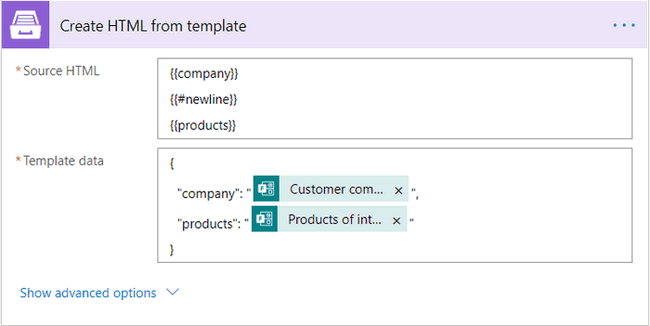
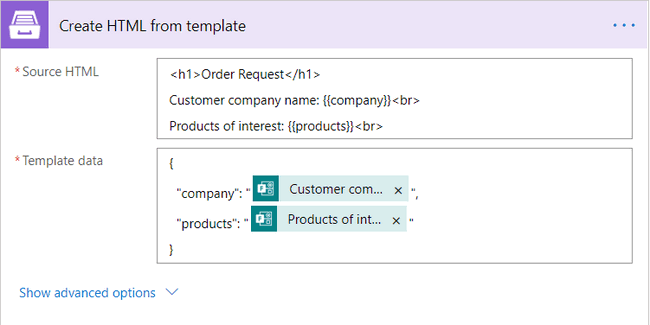
How-tos corrections

diff --git a/source/flow/how-tos/documents/create-custom-pdf-invoice-from-d365.rst b/source/flow/how-tos/documents/create-custom-pdf-invoice-from-d365.rst
@@ -11,6 +11,9 @@ Sometimes Dynamics 365 functionality for creating invoices is not enough if you 
 
 In this example, we will use the `Plumsail Documents <https://plumsail.com/documents/>`_ connector for Power Automate to create customized documents populated with Dynamics 365 CRM data. 
 
+.. image:: ../../../_static/img/flow/how-tos/launch-dynamics-flow.png
+    :alt: Start document generation process action
+
 Our Flow to do the job is simple:
 
 .. image:: ../../../_static/img/flow/how-tos/create-invoice-from-d365-flow.png
@@ -38,7 +41,8 @@ Click on the *Add Process* button.
     :alt: add process button
 
 Give a name to the process and upload the invoice template you'd like to use. 
-In this example, it is an ordinary service invoice template. To test the scenario, feel free to `download it <../../../_static/files/flow/how-tos/invoice-template-d365.docx>`_.
+
+Feel free to `download an ordinary service invoice template <../../../_static/files/flow/how-tos/invoice-template-d365.docx>`_ used in this example.
 
 .. image:: ../../../_static/img/flow/how-tos/create-dynamics-process.png
     :alt: Name process and upload template
@@ -104,7 +108,9 @@ When everything is done here, click on Save & Next to set up deliveries.
 Delivery
 --------
 
-It's possible to add as many deliveries as you need. We'll add an email delivery for demonstrating purpose. It will deliver the invoice completed with Dynamics 365 data to the customer.
+It's possible to add as many deliveries as you need. For instance, you could save the resulting invoice to your SharePoint library or OneDrive folder, then send as an e-mail attachment to the customer. Check out the `full list of available deliveries <../../../user-guide/processes/create-delivery.html#list-of-available-deliveries>`_.
+
+We'll add an email delivery for demonstrating purpose. It will deliver the invoice completed with Dynamics 365 data to the customer.
 
 We put token :code:`{{email}}` as a recipient's email address. So, it will adjust dynamically every time according to the specified data. We'll pull it from Dynamics 365 CRM. 
 
@@ -151,8 +157,6 @@ You can type any name for the connection. For example, *Plumsail Documents*.
 
 Then `create an API key in your Plumsail Account page <https://account.plumsail.com/documents/api-keys>`_, copy and paste it to *Access Key* field.
 
-
-
 The *Start Document generation process* has two parameters:
 
 - Process name - just select from the dropdown.
@@ -172,6 +176,15 @@ Once the Flow ran successfully, the customer receives a personalized email with 
 
 .. image:: ../../../_static/img/flow/how-tos/ready-dynamics-invoice.png
     :alt: invoice created from dynamics 365 CRM
+
+Use ready invoices in Flow
+~~~~~~~~~~~~~~~~~~~~~~~~~~
+
+It's possible to continue working with the generated invoices from Dynamics 365 further in Flow. For example, you can send them for approval. Just add the result file returned by *Start document generation process* action as an attachment:
+
+.. image:: ../../../_static/img/flow/how-tos/create-approval-d365.png
+    :alt: Send Dynamics 365 invoice for approval
+
 
 Conclusion
 ~~~~~~~~~~

diff --git a/source/flow/how-tos/documents/convert-microsoft-forms-with-attachments-to-pdf.rst b/source/flow/how-tos/documents/convert-microsoft-forms-with-attachments-to-pdf.rst
@@ -73,13 +73,13 @@ We'll use actions both from the `Plumsail Documents connector <https://emea.flow
 
 The first is **Create HTML from template**. In our case, it's simple.
 
-In Source HTML, we just added text HTML template for our two fields - Customer company name and Products of interest, separated by a new line:
+In Source HTML, we just added text HTML template for our order request - Customer company name and Products of interest. You may see :code:`{{curly}}` braces - they represent tokens that will be replaced by the response data:
 
 .. code:: text
 
-    {{company}}
-    {{#newline}}
-    {{products}}
+    <h1>Order Request</h1>
+    Customer company name: {{company}}<br>
+    Products of interest: {{products}}<br>
 
 .. note:: Please, get acquainted with `how Plumsail Documents HTML templates work <../../../document-generation/html/index.html>`_ to compose your customized templates.
 
@@ -173,6 +173,8 @@ You should receive the schema like this one:
         }
     }
 
+.. image:: ../../../_static/img/flow/how-tos/parse-json-ms-forms.png
+    :alt: Parse JSON step
 
 Get file content
 ----------------

diff --git a/source/flow/how-tos/documents/create-d365-leads-from-pdf-form.rst b/source/flow/how-tos/documents/create-d365-leads-from-pdf-form.rst
@@ -9,8 +9,10 @@ Extract data from fillable PDF forms and automatically create new leads in Micro
 
 In this article, we’ll look into how to collect data from filled PDF forms and create Microsoft Dynamics 365 leads automatically using Power Automate or Azure Logic Apps. We will use `Get Form from PDF <../../actions/document-processing.html#get-form-from-pdf>`_ action from the `Plumsail Documents <https://plumsail.com/documents/>`_ connector.
 
-Let us say you have a PDF form to gather contact and other information from new customers. 
-You need to bring this data to your Dynamics 365 CRM and create new leads for each completed form.
+Let us say there is a PDF form to collect contact information from your new customers. 
+It's sent by email. Once you receive it, you need to bring that data to your Dynamics 365 CRM and create new leads for each completed PDF form. 
+After a new customer appears as a new lead in Dynamics CRM, your sales team will handle them. 
+
 
 .. contents::
     :local:

diff --git a/source/how-tos/index-convert-to-pdf.rst b/source/how-tos/index-convert-to-pdf.rst
@@ -12,6 +12,7 @@ PDF is a widespread format for official documents, so you may want to convert so
       Convert PPTX to PDF <../flow/how-tos/documents/convert-powerpoint-to-pdf.rst>
       Convert HTML to PDF <../../../flow/how-tos/documents/convert-html-to-pdf.rst>      
       Convert email message to PDF <../../../flow/how-tos/documents/convert-email-to-pdf.rst>
+      Convert Microsoft Forms with attachments to PDF <../flow/how-tos/documents/convert-microsoft-forms-with-attachments-to-pdf.rst>
 
 
 If you convert HTML to PDF, you may need custom fonts or multilingual support. Review the article below to learn how to work with various fonts and how to convert foreign characters correctly.
